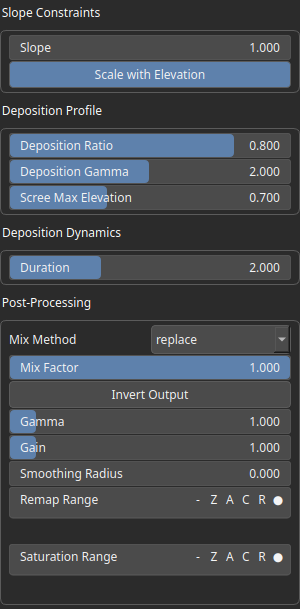
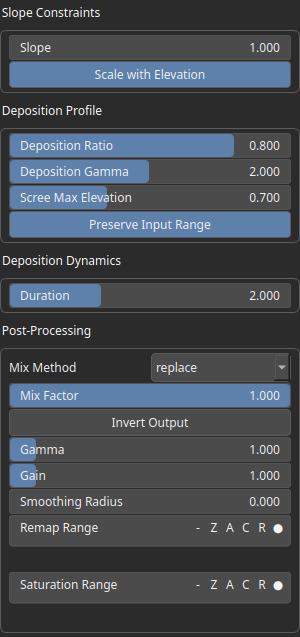
Fix HighMap for deposition map output to ValleyFill (#338)

Changed region(s): [[0.0, 0.0, 1.0, 0.936]]

diff --git a/docs/node_reference/nodes/ValleyFill.md b/docs/node_reference/nodes/ValleyFill.md
@@ -25,6 +25,7 @@ Erosion/Thermal
 
 |Name|Type|Description|
 | :--- | :--- | :--- |
+|deposition|Heightmap|No description|
 |output|Heightmap|Eroded heightmap.|
 
 # Parameters
@@ -42,6 +43,7 @@ Erosion/Thermal
 |Remap Range|Value range|Linearly remaps the output values to a specified target range (default is [0, 1]).|
 |Saturation Range|Value range|Modifies the amplitude of elevations by first clamping them to a given interval and then scaling them so that the restricted interval matches the original input range. This enhances contrast in elevation variations while maintaining overall structure.|
 |Smoothing Radius|Float|Defines the radius for post-processing smoothing, determining the size of the neighborhood used to average local values and reduce high-frequency detail. A radius of 0 disables smoothing.|
+|Preserve Input Range|Bool|No description|
 |Deposition Ratio|Float|Blend ratio controlling valley influence.|
 |Scale with Elevation|Bool|Defines the critical talus angle (repose slope) above which material becomes unstable and moves downslope during thermal erosion.|
 |Slope|Float|Selects the thermal erosion variant or behavior model, controlling how material is redistributed when slopes exceed the talus angle.|
